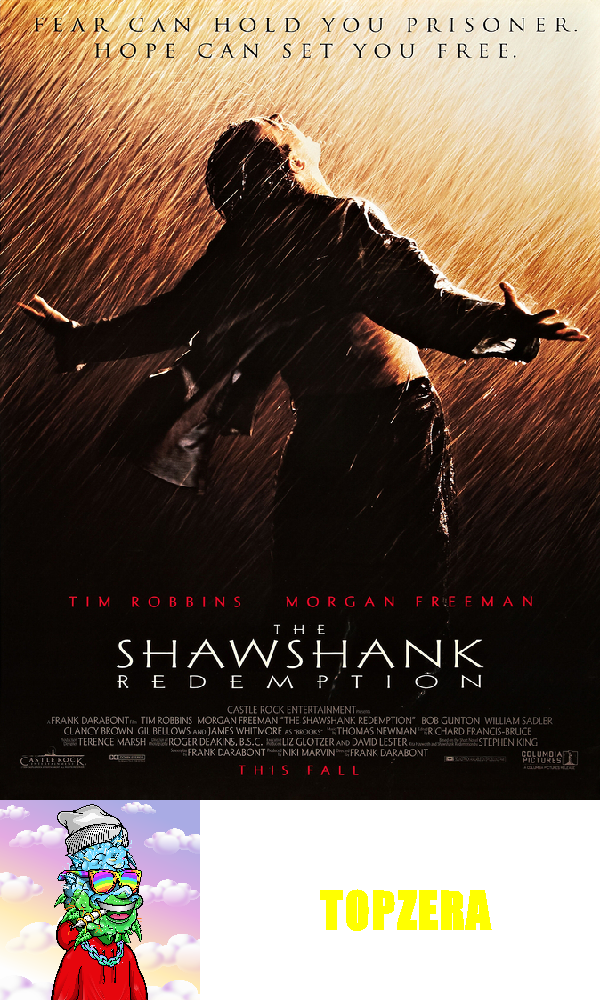
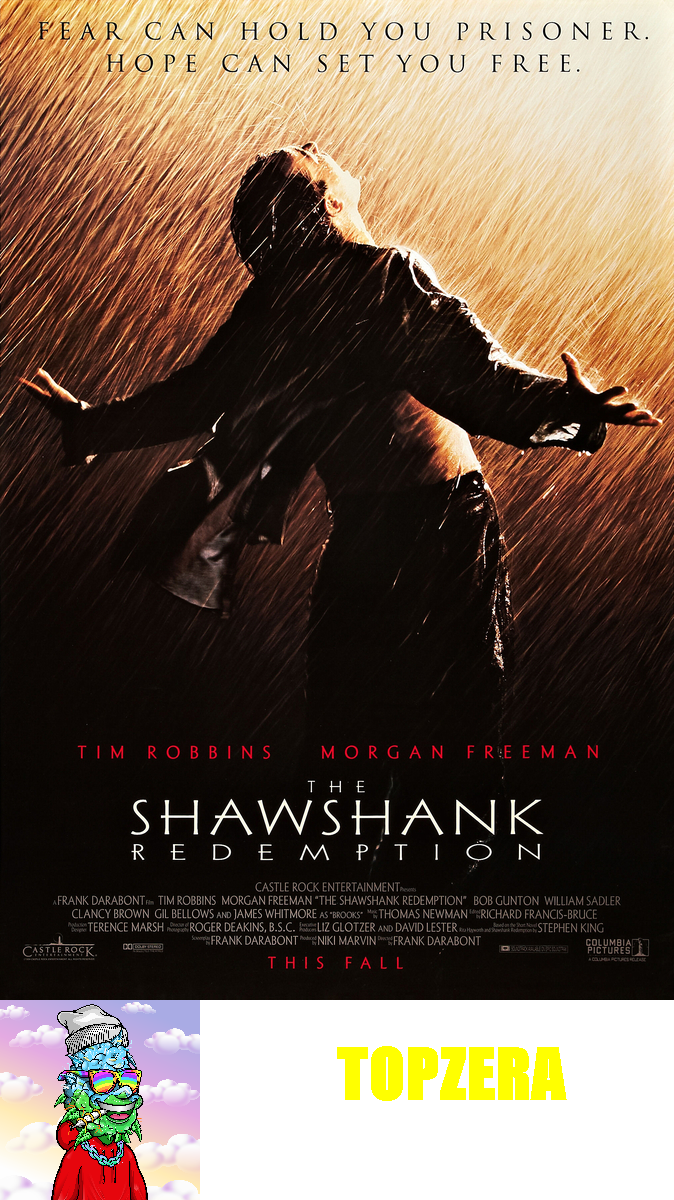
Refatoração e Flexibilização do uso das APIs

diff --git a/Top250MoviesAPI's/src/App.java b/Top250MoviesAPI's/src/App.java
@@ -1,60 +1,42 @@
 import java.io.InputStream;
-import java.net.URI;
 import java.net.URL;
-import java.net.http.HttpClient;
-import java.net.http.HttpRequest;
-import java.net.http.HttpResponse;
-import java.net.http.HttpResponse.BodyHandlers;
 import java.util.List;
-import java.util.Map;
 
 public class App {
-    public static void main(String[] args) throws Exception {
     
-        /* fazer uma conexão HTTP e buscar os top 250 filmes */
-        /* String url = "https://imdb-api.com/en/API/Top250Movies/k_7gmger3z"; */
-        String url = "https://raw.githubusercontent.com/alura-cursos/imersao-java/api/TopMovies.json";
-        URI endereço = URI.create(url);
-        var client = HttpClient.newHttpClient();
-        var request = HttpRequest.newBuilder(endereço).GET().build();
-        HttpResponse<String> response = client.send(request, BodyHandlers.ofString());
-        String body = response.body();
+    public static void main(String[] args) throws Exception {
 
-        /* extrair apenas os dados que interessam (titulo, poster, classificação)  */
-        /* Map = Estrutura de Dados associativa */
-        var parser = new jsonParser();
-        List<Map<String, String>> listaDeFilmes = parser.parse(body);
-       /*  System.out.println(listaDeFilmes.size());
-        System.out.println(listaDeFilmes.get(0)); */
+        /* fazer uma conexão HTTP */
+        /* ExtratorDeConteudo extrator = new ExtratorConteudoNASA();
+        String url = "https://api.mocki.io/v2/549a5d8b/NASA-APOD"; */
+
+        ExtratorDeConteudo extrator = new ExtratorConteudoIMDB();
+        String url = "https://api.mocki.io/v2/549a5d8b/Top250Movies";
+
+        
+
+        var clientHttp = new ClientHttp();
+        String json = clientHttp.buscaDados(url);
 
         /* exibir e manipular os dados */
+        
+        List<Conteudo> conteudos = extrator.extraiConteudos(json);
+
         var generator = new StickerGenerator();
-        for (Map<String,String> filme : listaDeFilmes){
+        
+        for (int i = 0; i < 3; i++) {
+
+            Conteudo conteudo = conteudos.get(i);
+            String nomeArquivo = conteudo.getTitulo().replace(":", "-") + ".png";
+
+                InputStream inputStream = new URL(conteudo.getUrlImagem()).openStream();
+           /*  String nomeArquivo = "saida/"+ conteudo.getTitulo() +".png"; */
             
-            String urlImagem = filme.get("image");
-            String titulo = filme.get("title");
-            
-            InputStream inputStream = new URL(urlImagem).openStream();
-            String nomeArquivo = titulo.replace(":", "-") + ".png";
 
-            generator.criar(inputStream, nomeArquivo);
+                generator.criar(inputStream, nomeArquivo);
 
-            System.out.println("\u001b[48;2;42;122;228mTítulo:\u001b[m" + filme.get("title"));
-            System.out.println("\u001b[48;2;42;122;228mPoster:\u001b[m" + filme.get("image"));
-            System.out.println("\u001b[48;2;42;122;228mNota:\u001b[m" + filme.get("imDbRating"));
-
-            //Notas Arredondadas pareadas com as estrelas
-            String imdbRating = filme.get("imDbRating");
-            Double imdbRatingDouble = Double.parseDouble(imdbRating);
-            long roundedRating = Math.round(imdbRatingDouble); 
-
-            //Estrelas            
-            for(int i=0; i < roundedRating; i++){
-                System.out.print("\u2b50");
-            }            
-
-            System.out.println();
-            System.out.println();
+                System.out.println(conteudo.getTitulo());
+                System.out.println();
             
         }
     }

diff --git a/Top250MoviesAPI's/src/StickerGenerator.java b/Top250MoviesAPI's/src/StickerGenerator.java
@@ -4,8 +4,6 @@ import java.awt.Graphics2D;
 import java.awt.image.BufferedImage;
 import java.io.File;
 import java.io.InputStream;
-import java.net.URL;
-
 import javax.imageio.ImageIO;
 
 
@@ -23,41 +21,36 @@ public class StickerGenerator {
 
         //Resultado
         BufferedImage imagemOriginal = ImageIO.read(inputStream);
-
-        /* Minha Imagem */
-        BufferedImage minhaImagem = ImageIO.read(new URL("https://bafybeifjxk3me4fbduo2q7k37le2nwvvtvzncq2df6lxavugczdbbylqom.ipfs.dweb.link/3976.png?ext=png"));
         
+        /* Minha Imagem */
+        BufferedImage minhaImagem = ImageIO.read(new File("C://Dev//Imersão Alura//Top250MoviesAPI's//3976.png"));
+       
 
         /* criar uma nova imagem em memória com transparência e com tamanho novo*/
-        int largura = imagemOriginal.getWidth();
+        int largura = imagemOriginal.getWidth(); 
         int altura = imagemOriginal.getHeight();
-        /* int novaAltura = altura + 250; */
+        int novaAltura = altura + 200;
 
-        BufferedImage novaImagem = new BufferedImage(600, 1000, BufferedImage.TRANSLUCENT);
-        
+        BufferedImage novaImagem = new BufferedImage(largura, novaAltura, BufferedImage.TRANSLUCENT);
+
         /* copiar a imagem original para a nova imagem (em memória) */
         Graphics2D graphics = (Graphics2D) novaImagem.getGraphics();
-        graphics.drawImage(imagemOriginal, 0, 0, 600, 800, null);
+        graphics.drawImage(imagemOriginal, 0, 0, null);
         
         /* Minha Imagem */
-        graphics.drawImage(minhaImagem, 0, 800, 200, 200, null);
+        graphics.drawImage(minhaImagem, 0, novaAltura - 200, 200, 200, null);
         
         /* Configurar a fonte */
-        var fonte = new Font("Impact", Font.BOLD, 48);
+        var fonte = new Font("Impact", Font.BOLD, 64);
         graphics.setColor(Color.YELLOW);
         graphics.setFont(fonte);
         
-
         /* escrever uma frase na nova imagem */
-        graphics.drawString("TOPZERA", 320, 930);
+        graphics.drawString("TOPZERA", largura/2, novaAltura-100);
+        
         
         /* escrever a imagem em um arquivo (EM UMA PASTA[?])*/
         ImageIO.write(novaImagem, "png", new File("C:\\Dev\\Imersão Alura\\StickerImages\\" + nomeArquivo));
-
-/*     public static void main(String[] args) throws Exception {
-        var generator = new StickerGenerator();
-        generator.criar();
-    } */
 
     }
 }

diff --git a/Top250MoviesAPI's/src/ExtratorConteudoIMDB.java b/Top250MoviesAPI's/src/ExtratorConteudoIMDB.java
@@ -1,0 +1,49 @@
+import java.util.ArrayList;
+import java.util.List;
+import java.util.Map;
+
+public class ExtratorConteudoIMDB implements ExtratorDeConteudo {
+    
+    public List<Conteudo> extraiConteudos(String json){
+        /* extrair apenas os dados que interessam (titulo, poster, classificação)  */
+        /* Map = Estrutura de Dados associativa */
+        var parser = new jsonParser();
+        List<Map<String, String>> listaDeAtributos = parser.parse(json);
+        
+        List<Conteudo> conteudos = new ArrayList<>();
+        
+        //popular a lista de conteúdos
+        for (Map<String, String> atributos : listaDeAtributos) {
+            
+            String titulo = atributos.get("title");
+            String urlImagem = atributos.get("image");
+
+            System.out.println();
+            System.out.println();
+
+            System.out.println("\u001b[48;2;42;122;228mTítulo:\u001b[m" + atributos.get("title"));
+            System.out.println("\u001b[48;2;42;122;228mPoster:\u001b[m" + atributos.get("image"));
+            System.out.println("\u001b[48;2;42;122;228mNota:\u001b[m" + atributos.get("imDbRating"));
+
+                    //Notas Arredondadas pareadas com as estrelas
+                    String imdbRating = atributos.get("imDbRating");
+                    Double imdbRatingDouble = Double.parseDouble(imdbRating);
+                    long roundedRating = Math.round(imdbRatingDouble); 
+
+                    //Estrelas            
+                    for(int x = 0; x < roundedRating; x++){
+                        System.out.print("\u2b50");
+                        System.out.print("");
+                    }            
+
+
+            var conteudo = new Conteudo(titulo, urlImagem);
+
+            conteudos.add(conteudo);
+        }
+        
+        System.out.println();
+        System.out.println();
+        return conteudos;
+    }
+}

diff --git a/Top250MoviesAPI's/src/ExtratorConteudoNASA.java b/Top250MoviesAPI's/src/ExtratorConteudoNASA.java
@@ -1,0 +1,29 @@
+import java.util.ArrayList;
+import java.util.List;
+import java.util.Map;
+
+public class ExtratorConteudoNASA implements ExtratorDeConteudo{
+    
+    public List<Conteudo> extraiConteudos(String json){
+        /* extrair apenas os dados que interessam (titulo, poster, classificação)  */
+        /* Map = Estrutura de Dados associativa */
+        var parser = new jsonParser();
+        List<Map<String, String>> listaDeAtributos = parser.parse(json);
+        
+        List<Conteudo> conteudos = new ArrayList<>();
+        
+        //popular a lista de conteúdos
+        for (Map<String, String> atributos : listaDeAtributos) {
+            String titulo = atributos.get("title");
+            String urlImagem = atributos.get("url");
+            
+            var conteudo = new Conteudo(titulo, urlImagem);
+
+            conteudos.add(conteudo);
+            
+        }
+        
+        return conteudos;
+    }
+
+}

diff --git a/Top250MoviesAPI's/src/ClientHttp.java b/Top250MoviesAPI's/src/ClientHttp.java
@@ -1,0 +1,29 @@
+import java.io.IOException;
+import java.net.URI;
+import java.net.http.HttpClient;
+import java.net.http.HttpRequest;
+import java.net.http.HttpResponse;
+import java.net.http.HttpResponse.BodyHandlers;
+
+public class ClientHttp {
+    
+    public String buscaDados(String url){
+
+        try{
+
+            URI endereço = URI.create(url);
+            var client = HttpClient.newHttpClient();
+            var request = HttpRequest.newBuilder(endereço).GET().build();
+            HttpResponse<String> response = client.send(request, BodyHandlers.ofString());
+            String body = response.body();
+            return body;
+        
+        } catch(IOException | InterruptedException ex){
+            
+            throw new RuntimeException(ex);
+
+        }
+
+    }
+
+}

diff --git a/Top250MoviesAPI's/src/Conteudo.java b/Top250MoviesAPI's/src/Conteudo.java
@@ -1,0 +1,19 @@
+public class Conteudo {
+    
+    private String titulo;
+    private String urlImagem;
+
+    public Conteudo(String titulo, String urlImagem) {
+        this.titulo = titulo;
+        this.urlImagem = urlImagem;
+    }
+
+    public String getTitulo() {
+        return titulo;
+    }
+
+    public String getUrlImagem() {
+        return urlImagem;
+    }
+
+}

diff --git a/Top250MoviesAPI's/src/ExtratorDeConteudo.java b/Top250MoviesAPI's/src/ExtratorDeConteudo.java
@@ -1,0 +1,9 @@
+import java.util.List;
+
+//INTERFACE A SER SEGUIDA
+
+public interface ExtratorDeConteudo {
+
+    public List<Conteudo> extraiConteudos(String json);
+
+}
